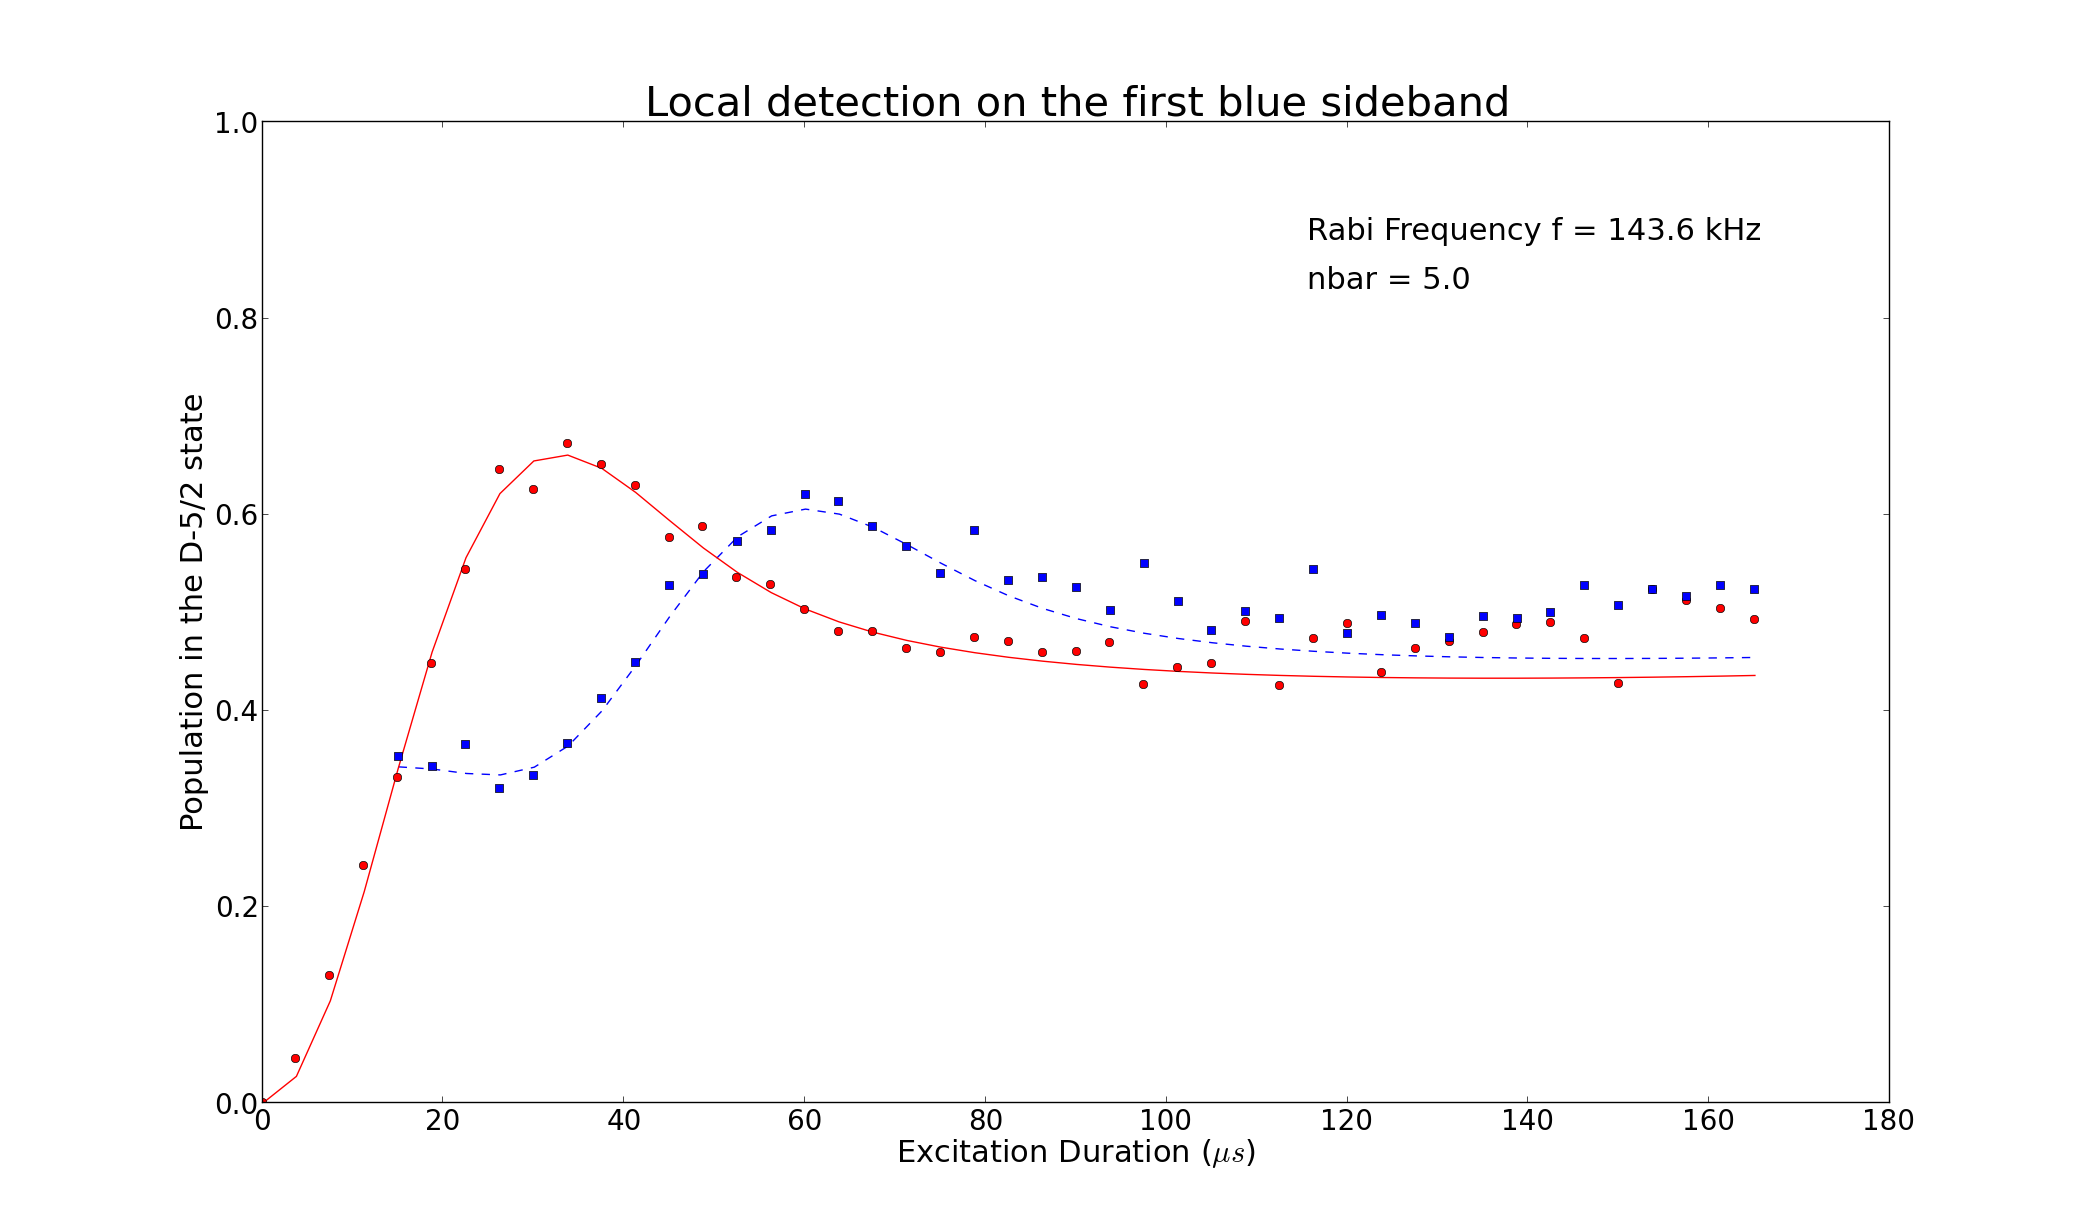
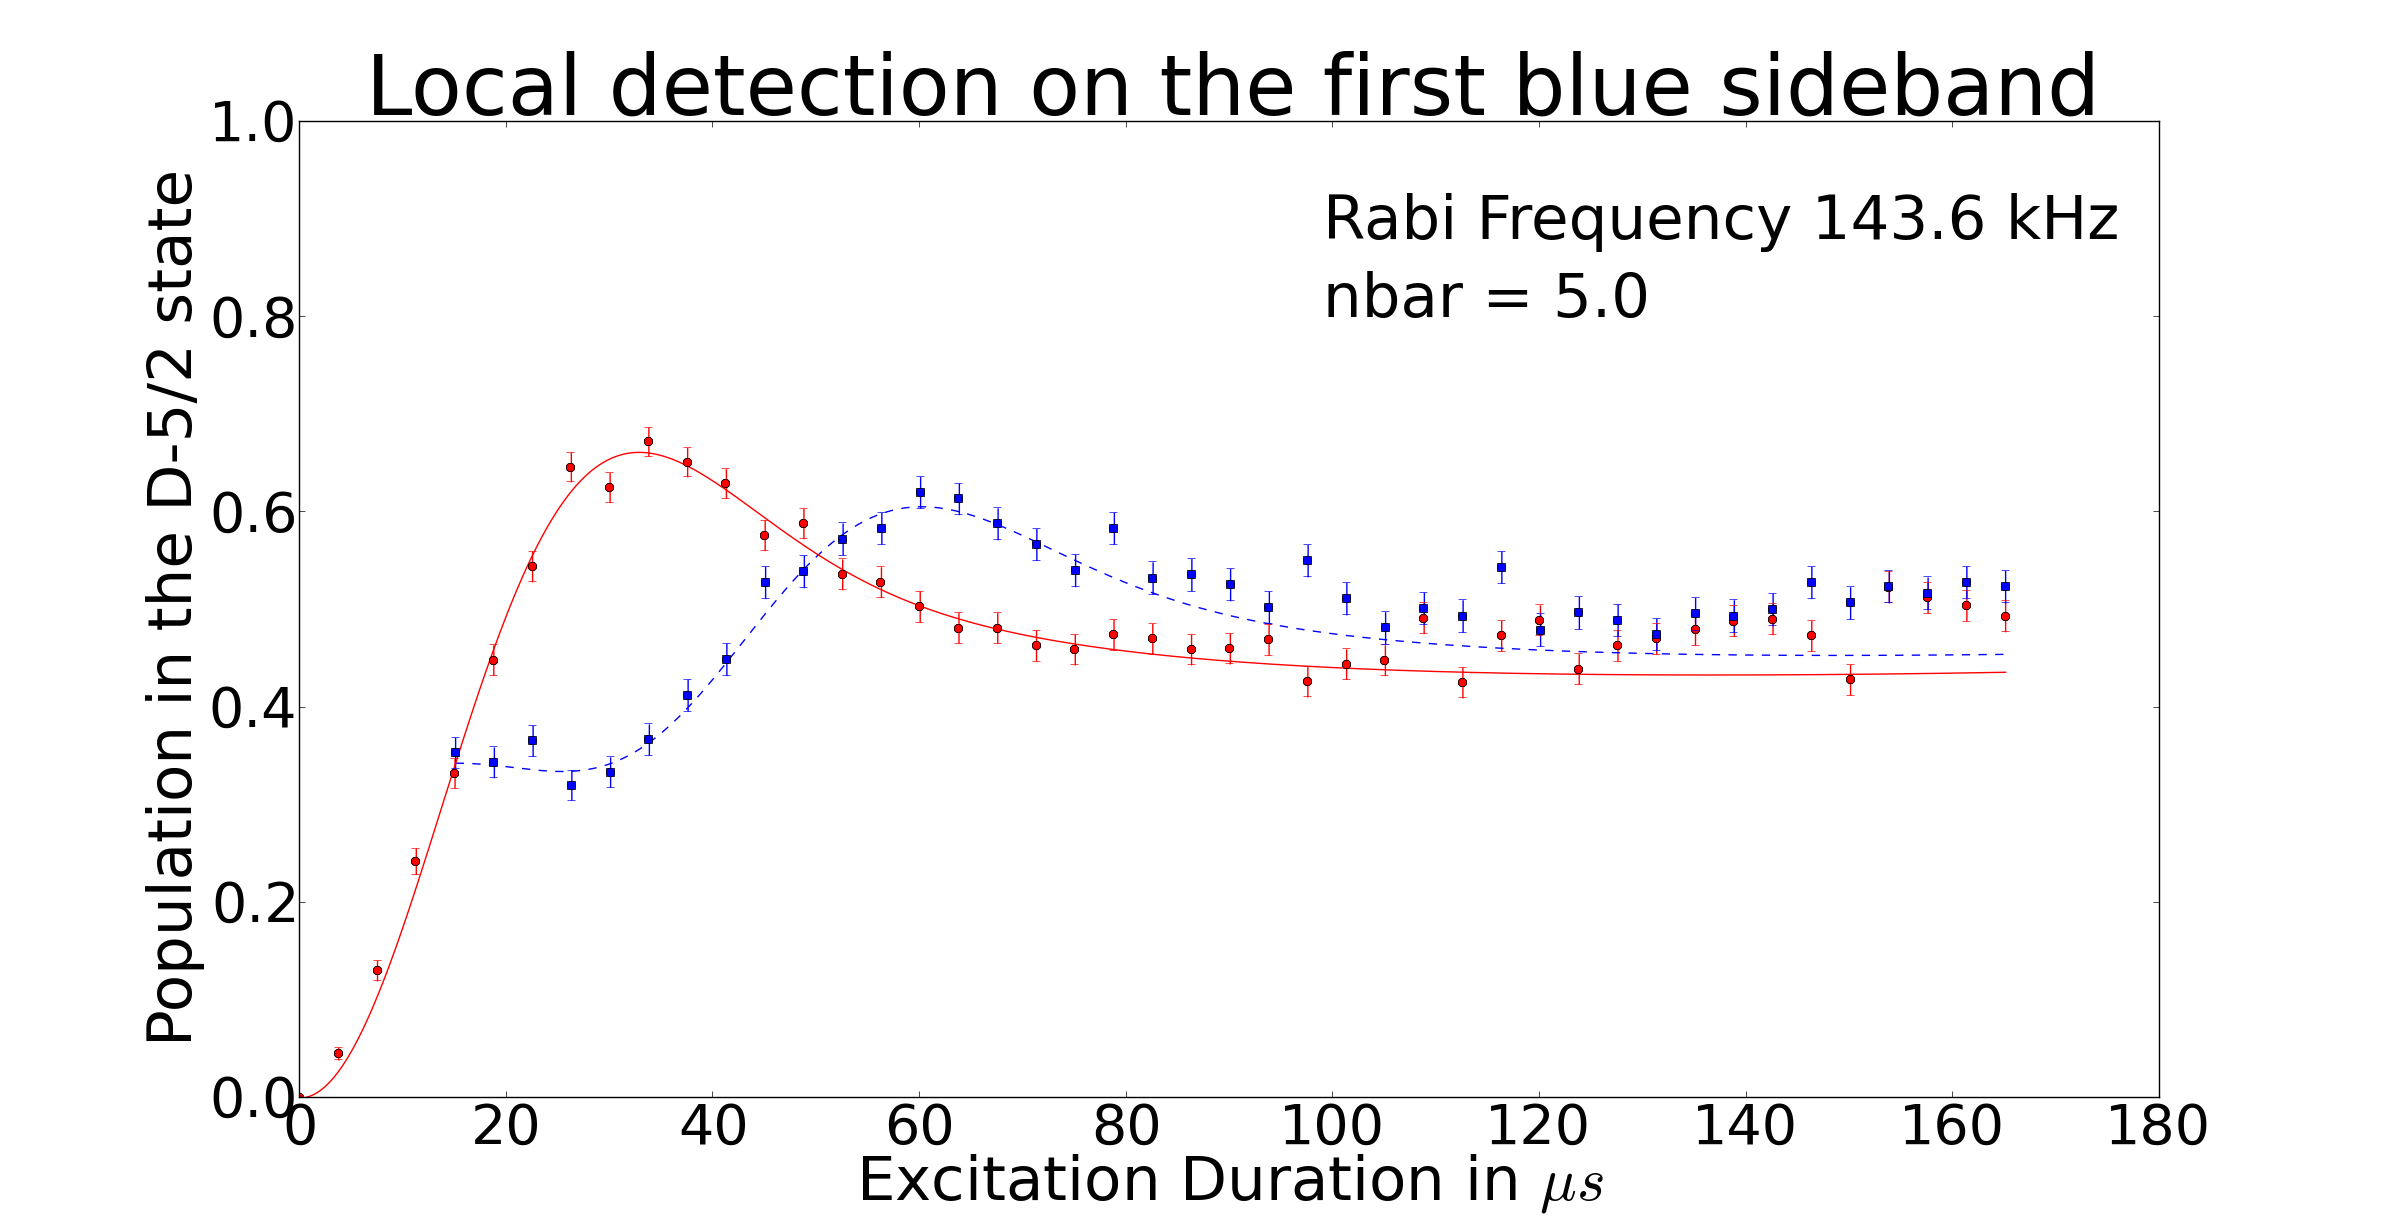
bigger fonts, abridged dephasing available

diff --git a/scripts/dataAnalysis/729Experiments/2013Mar15/OperatorDistance/PlotAndFitLD_opdist.py b/scripts/dataAnalysis/729Experiments/2013Mar15/OperatorDistance/PlotAndFitLD_opdist.py
@@ -145,9 +145,9 @@ print 'Actual t0 = {}'.format(t0)
 
 #pyplot.plot(flop_x_axis*10**6,flop_y_axis, 'ro')
 #pyplot.plot(deph_x_axis*10**6,deph_y_axis, 'bs')
-pyplot.xlabel(r'Excitation Duration ($\mu s$)', fontsize = 22)
+pyplot.xlabel(r'Excitation Duration ($\mu s$)', fontsize = 44)
 pyplot.ylim((0,1))
-pyplot.ylabel('Population in the D-5/2 state', fontsize = 22)
+pyplot.ylabel('Population in the D-5/2 state', fontsize = 44)
 #pyplot.legend()
 
 subseq_evolution=np.where(flop_x_axis>=t0-0.00001)
@@ -160,10 +160,9 @@ theo_diff = 2.0*np.abs(flop_fit_y_axis-deph_fit_y_axis)**2
 pyplot.plot(10**6*(deph_x_axis-t0),exp_diff,'ko')
 pyplot.plot(10**6*(nicer_resolution-t0),theo_diff,'k-')
 
-
-pyplot.text(xmax*0.50*10**6,0.83, 'nbar = {:.1f}'.format(nb()), fontsize = 22)
-pyplot.text(xmax*0.50*10**6,0.88, 'Rabi Frequency f = {:.1f} kHz'.format(f_Rabi()*10**(-3)), fontsize = 22)
-pyplot.title(r'Operator Distance for Dephasing at $\pi / 2$ Time', fontsize = 30)
-pyplot.tick_params(axis='x', labelsize=20)
-pyplot.tick_params(axis='y', labelsize=20)
+pyplot.text(xmax*0.4*10**6,0.80, 'nbar = {:.1f}'.format(nb()), fontsize = 44)
+pyplot.text(xmax*0.4*10**6,0.88, 'Rabi Frequency f = {:.1f} kHz'.format(f_Rabi()*10**(-3)), fontsize = 44)
+pyplot.title(r'Operator Distance for Dephasing at $\pi / 2$ Time', fontsize = 60)
+pyplot.tick_params(axis='x', labelsize=40)
+pyplot.tick_params(axis='y', labelsize=40)
 pyplot.show()

diff --git a/scripts/dataAnalysis/729Experiments/2013Mar08/PlotAndFitLD_doppler2.py b/scripts/dataAnalysis/729Experiments/2013Mar08/PlotAndFitLD_doppler2.py
@@ -167,8 +167,8 @@ pyplot.xlabel('Excitation Duration '+label, fontsize = 44)
 pyplot.ylim((0,1))
 pyplot.ylabel('Population in the D-5/2 state', fontsize = 44)
 #pyplot.legend()
-pyplot.text(xmax*0.70*timescale,0.83, 'nbar = {:.2f}'.format(nb()), fontsize = 44)
-pyplot.text(xmax*0.70*timescale,0.88, 'Rabi Frequency {:.1f} kHz'.format(f_Rabi()*10**(-3)), fontsize = 44)
+pyplot.text(xmax*0.60*timescale,0.80, 'nbar = {:.1f}'.format(nb()), fontsize = 44)
+pyplot.text(xmax*0.60*timescale,0.88, 'Rabi Frequency {:.1f} kHz'.format(f_Rabi()*10**(-3)), fontsize = 44)
 pyplot.title('Local detection on the first blue sideband', fontsize = 60)
 pyplot.tick_params(axis='x', labelsize=40)
 pyplot.tick_params(axis='y', labelsize=40)

diff --git a/scripts/dataAnalysis/729Experiments/2013Mar15/PlotAndFitLDpiover2.py b/scripts/dataAnalysis/729Experiments/2013Mar15/PlotAndFitLDpiover2.py
@@ -167,8 +167,8 @@ pyplot.xlabel('Excitation Duration '+label, fontsize = 44)
 pyplot.ylim((0,1))
 pyplot.ylabel('Population in the D-5/2 state', fontsize = 44)
 #pyplot.legend()
-pyplot.text(xmax*0.70*timescale,0.83, 'nbar = {:.2f}'.format(nb()), fontsize = 44)
-pyplot.text(xmax*0.70*timescale,0.88, 'Rabi Frequency {:.1f} kHz'.format(f_Rabi()*10**(-3)), fontsize = 44)
+pyplot.text(xmax*0.6*timescale,0.80, 'nbar = {:.1f}'.format(nb()), fontsize = 44)
+pyplot.text(xmax*0.6*timescale,0.88, 'Rabi Frequency {:.1f} kHz'.format(f_Rabi()*10**(-3)), fontsize = 44)
 pyplot.title('Local detection on the first blue sideband', fontsize = 60)
 pyplot.tick_params(axis='x', labelsize=40)
 pyplot.tick_params(axis='y', labelsize=40)

diff --git a/scripts/dataAnalysis/729Experiments/2013Mar15/PlotAndFitLDpiover4.py b/scripts/dataAnalysis/729Experiments/2013Mar15/PlotAndFitLDpiover4.py
@@ -167,8 +167,8 @@ pyplot.xlabel('Excitation Duration '+label, fontsize = 44)
 pyplot.ylim((0,1))
 pyplot.ylabel('Population in the D-5/2 state', fontsize = 44)
 #pyplot.legend()
-pyplot.text(xmax*0.70*timescale,0.83, 'nbar = {:.2f}'.format(nb()), fontsize = 44)
-pyplot.text(xmax*0.70*timescale,0.88, 'Rabi Frequency {:.1f} kHz'.format(f_Rabi()*10**(-3)), fontsize = 44)
+pyplot.text(xmax*0.6*timescale,0.80, 'nbar = {:.1f}'.format(nb()), fontsize = 44)
+pyplot.text(xmax*0.6*timescale,0.88, 'Rabi Frequency {:.1f} kHz'.format(f_Rabi()*10**(-3)), fontsize = 44)
 pyplot.title('Local detection on the first blue sideband', fontsize = 60)
 pyplot.tick_params(axis='x', labelsize=40)
 pyplot.tick_params(axis='y', labelsize=40)

diff --git a/scripts/experiments/Experiments729/ramsey_dephase_complete_abridged.py b/scripts/experiments/Experiments729/ramsey_dephase_complete_abridged.py
@@ -5,7 +5,7 @@ from labrad.units import WithUnit
 import numpy as np
 from treedict import TreeDict
 
-class ramsey_dephase_complete(experiment):
+class ramsey_dephase_complete_abridged(experiment):
     
     name = 'RamseyDephaseCompleteAbridged'
     required_parameters = [
@@ -63,6 +63,6 @@ if __name__ == '__main__':
     import labrad
     cxn = labrad.connect()
     scanner = cxn.scriptscanner
-    exprt = ramsey_dephase_complete(cxn = cxn)
+    exprt = ramsey_dephase_complete_abridged(cxn = cxn)
     ident = scanner.register_external_launch(exprt.name)
     exprt.execute(ident)
